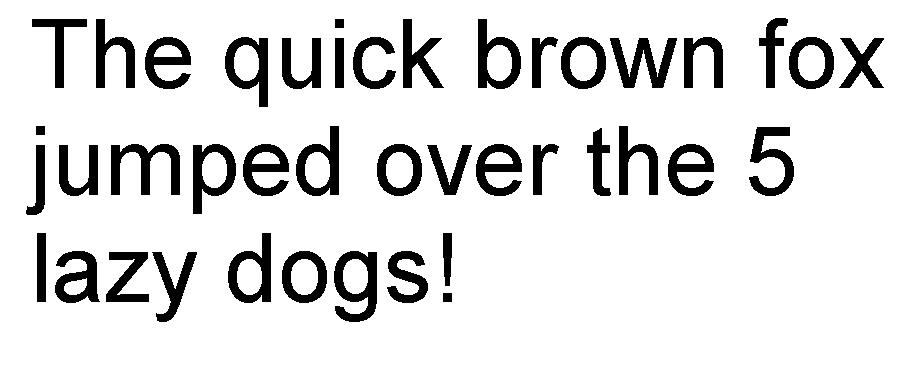
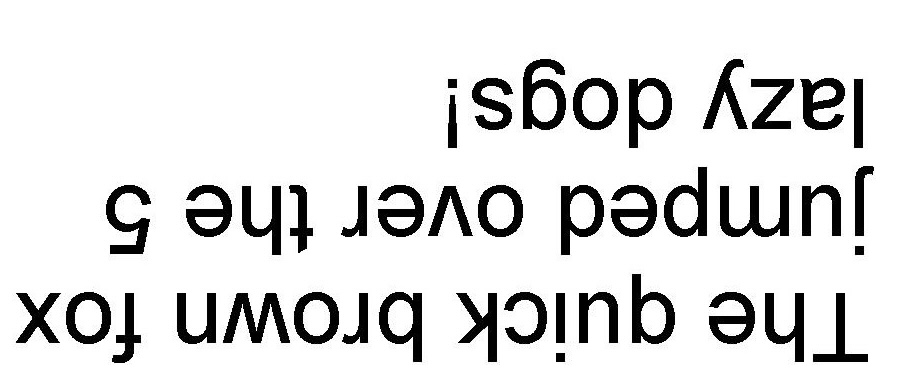
ML models of Faces and OCR ready for next gen C++ worker

diff --git a/ml/ocr/paddlepaddle.py b/ml/ocr/paddlepaddle.py
@@ -1,63 +1,70 @@
-"""ML OCR Paddle Model"""
+"""ML OCR PaddlePaddle Model"""
 import sys
 import os
 import urllib.request
-import shutil
+import tarfile
 
-import cv2
-from paddleocr_convert import PaddleOCRModelConvert
-from rapidocr_onnxruntime import RapidOCR
+from paddleocr import PaddleOCR
 
 
-MODEL_BASE_URL='https://paddleocr.bj.bcebos.com/'
+MODEL_BASE_URL="https://paddle-model-ecology.bj.bcebos.com/paddlex/official_inference_model/paddle3.0.0/"
+CATEGORY_MODELS = {
+    "doc_orient": ["PP-LCNet_x1_0_doc_ori_infer.tar"],
+    "text_unwrap": ["UVDoc_infer.tar"],
+    "text_line_orient": ["PP-LCNet_x1_0_textline_ori_infer.tar", "PP-LCNet_x0_25_textline_ori_infer.tar"],
+    "text_det": ["PP-OCRv5_server_det_infer.tar", "PP-OCRv5_mobile_det_infer.tar"],
+    "text_rec": ["PP-OCRv5_server_rec_infer.tar", "PP-OCRv5_mobile_rec_infer.tar"],
+}
 
 def download_and_save():
     """Download models for detection, recognition and classification"""
-    print('downloading and saving paddle ocr models')
-    urllib.request.urlretrieve(f'{MODEL_BASE_URL}PP-OCRv3/english/en_PP-OCRv3_det_infer.tar', 'det_infer.tar')
-    urllib.request.urlretrieve(f'{MODEL_BASE_URL}PP-OCRv3/english/en_PP-OCRv3_rec_infer.tar', 'rec_infer.tar')
-    urllib.request.urlretrieve(f'{MODEL_BASE_URL}dygraph_v2.0/ch/ch_ppocr_mobile_v2.0_cls_infer.tar', 'cls_infer.tar')
-    urllib.request.urlretrieve('https://raw.githubusercontent.com/PaddlePaddle/PaddleOCR/release/2.7/ppocr/utils/en_dict.txt', 'rec_en_dict.txt')
-    converter = PaddleOCRModelConvert()
-    converter('det_infer.tar', 'det_onnx')
-    converter = PaddleOCRModelConvert()
-    converter('cls_infer.tar', 'cls_onnx')
-    converter = PaddleOCRModelConvert()
-    converter('rec_infer.tar', 'rec_onnx', txt_path='rec_en_dict.txt')
-    os.remove('det_infer.tar')
-    os.remove('cls_infer.tar')
-    os.remove('rec_infer.tar')
-    os.remove('rec_en_dict.txt')
-    os.rename('det_onnx/det_infer/det_infer.onnx', 'det_onnx/model.onnx')
-    os.rename('cls_onnx/cls_infer/cls_infer.onnx', 'cls_onnx/model.onnx')
-    os.rename('rec_onnx/rec_infer/rec_infer.onnx', 'rec_onnx/model.onnx')
-    shutil.rmtree('det_onnx/det_infer')
-    shutil.rmtree('cls_onnx/cls_infer')
-    shutil.rmtree('rec_onnx/rec_infer')
-    
-def load_and_run(sample='example.jpg'):
-    """Loads the saved paddle ocr models and runs sample image"""
-    print('loading and running paddle ocr models')
-    engine = RapidOCR(rec_model_path='rec_onnx/model.onnx', det_model_path='det_onnx/model.onnx', cls_model_path='cls_onnx/model.onnx')
-    result = engine(cv2.imread(sample))
-    print(result)
-    detections = result[0]
-    text = ''
-    for detection in detections:
-        text += ' ' + detection[1]
-    text = text.strip()
-    print(text)
+    print("downloading and saving paddle ocr models")
+    for category, models in CATEGORY_MODELS.items():
+        for model in models:
+            urllib.request.urlretrieve(f"{MODEL_BASE_URL}{model}", model)
+            model_path = f"ocr_{category}"
+            os.makedirs(model_path, exist_ok=True)
+            with tarfile.open(model, "r:") as tar:
+                tar.extractall(path=model_path)
+                full_model_path = f"{model_path}/{model.replace('.tar', '')}"
+                # remove redundant files
+                for filename in os.listdir(full_model_path):
+                    if "demo" in filename:
+                        os.remove(full_model_path+"/"+filename)
 
-if __name__ == '__main__':
+    for models in CATEGORY_MODELS.values():
+        for model in models:
+            os.remove(model)
+
+def load_and_run(sample="example.jpg"):
+    """Loads the saved paddle ocr models and runs sample image"""
+    print("loading and running paddle ocr models")
+    ocr = PaddleOCR(
+        doc_orientation_classify_model_name="PP-LCNet_x1_0_doc_ori",
+        doc_orientation_classify_model_dir="./ocr_doc_orient/PP-LCNet_x1_0_doc_ori_infer",
+        textline_orientation_model_name="PP-LCNet_x0_25_textline_ori",
+        textline_orientation_model_dir="./ocr_text_line_orient/PP-LCNet_x0_25_textline_ori_infer",
+        doc_unwarping_model_name="UVDoc",
+        doc_unwarping_model_dir="./ocr_text_unwrap/UVDoc_infer",
+        text_detection_model_name="PP-OCRv5_mobile_det",
+        text_detection_model_dir="./ocr_text_det/PP-OCRv5_mobile_det_infer",
+        text_recognition_model_name="PP-OCRv5_mobile_rec",
+        text_recognition_model_dir="./ocr_text_rec/PP-OCRv5_mobile_rec_infer"
+    )
+    outputs = ocr.predict(sample)
+    for output in outputs:
+        output.save_to_json("ocr_output")
+
+if __name__ == "__main__":
     args = sys.argv
     if len(args) > 1:
-        if args[1] == 'save':
+        if args[1] == "save":
             download_and_save()
-            exit(0)
-        if args[1] == 'run':
+            sys.exit(0)
+        if args[1] == "run":
             if len(args)  == 3:
                 load_and_run(args[2])
             else:
                 load_and_run()
-            exit(0)
-    print('provide a valid arg: save OR run')
+            sys.exit(0)
+    print("provide a valid arg: save OR run")

diff --git a/ml/faces/export_onnx.py b/ml/faces/export_onnx.py
@@ -10,42 +10,36 @@ import onnxruntime as ort
 
 
 VERSION=os.getenv("VERSION", "dev").replace(".", "")
-FILENAME_SUFFIX = f"_v{VERSION}"
-DET_FILENAME = f"faces_det{FILENAME_SUFFIX}.onnx"
-DET_MODELS_ZIPNAME = f"faces_det.zip"
-REC_FILENAME = f"faces_rec{FILENAME_SUFFIX}.onnx"
-REC_MODELS_ZIPNAME = f"faces_rec.zip"
+DET_MODELS_ZIPNAME = "faces_det.zip"
+REC_MODELS_ZIPNAME = "faces_rec.zip"
 
 def export_and_save():
     """Download required models for detection and recognition, export and save for inference"""
     print("downloading face detection model")
-    urllib.request.urlretrieve("https://www.dropbox.com/scl/fo/9y86d4qb2nmkdtlf61aw0/AMc1Qfk6TtkbZMkhj8bBOVI?rlkey=2ztw1h9cvj9bsfc2niu42znr5&st=8u3eyse2&dl=1", DET_MODELS_ZIPNAME)
+    urllib.request.urlretrieve("https://www.dropbox.com/scl/fo/9y86d4qb2nmkdtlf61aw0/AMc1Qfk6TtkbZMkhj8bBOVI"+
+                               "?rlkey=2ztw1h9cvj9bsfc2niu42znr5&st=8u3eyse2&dl=1", DET_MODELS_ZIPNAME)
     with zipfile.ZipFile(DET_MODELS_ZIPNAME) as z:
         z.extractall("faces_det")
     os.remove(DET_MODELS_ZIPNAME)
     print("exporting and saving face detection model")
     print("all models are already exported in ONNX format!")
     print("downloading face recognition model")
-    urllib.request.urlretrieve("https://www.dropbox.com/scl/fo/pubfb5wkiv5c5iucmlyou/ABKeExgXz5r-KMk5VUw2fPg?rlkey=djw1796psv1ncqun0kgswmkr9&st=ruowqv0e&dl=1", REC_MODELS_ZIPNAME)
+    urllib.request.urlretrieve("https://www.dropbox.com/scl/fo/pubfb5wkiv5c5iucmlyou/ABKeExgXz5r-KMk5VUw2fPg"+
+                               "?rlkey=djw1796psv1ncqun0kgswmkr9&st=ruowqv0e&dl=1", REC_MODELS_ZIPNAME)
     with zipfile.ZipFile(REC_MODELS_ZIPNAME) as z:
         z.extractall("faces_rec")
     os.remove(REC_MODELS_ZIPNAME)
     print("exporting and saving face recognition model")
     print("all models are already exported in ONNX format!")
 
-def distance2bbox(points, distance):
-    x1, y1 = points[:, 0] - distance[:, 0], points[:, 1] - distance[:, 1]
-    x2, y2 = points[:, 0] + distance[:, 2], points[:, 1] + distance[:, 3]
-    return np.stack([x1, y1, x2, y2], axis=-1)
-
 def nms(dets, thresh=0.4):
+    """non maximum supression with threshold"""
     x1 = dets[:, 0]
     y1 = dets[:, 1]
     x2 = dets[:, 2]
     y2 = dets[:, 3]
-    scores = dets[:, 4]
     areas = (x2 - x1 + 1) * (y2 - y1 + 1)
-    order = scores.argsort()[::-1]
+    order = dets[:, 4].argsort()[::-1]
     keep = []
     while order.size > 0:
         i = order[0]
@@ -91,7 +85,9 @@ def load_and_run(sample="example.jpg"):
             grid = np.stack(np.mgrid[:h, :w][::-1], axis=-1).astype(np.float32)
             anchors = (grid * stride).reshape(-1, 2)
             anchors = np.repeat(anchors, 2, axis=0).reshape(-1, 2)
-            bboxes = distance2bbox(anchors, bboxes) / det_scale
+            x1, y1 = anchors[:, 0] - bboxes[:, 0], anchors[:, 1] - bboxes[:, 1]
+            x2, y2 = anchors[:, 0] + bboxes[:, 2], anchors[:, 1] + bboxes[:, 3]
+            bboxes = np.stack([x1, y1, x2, y2], axis=-1) / det_scale
             keep_inds = scores >= 0.5
             scores, bboxes = scores[keep_inds], bboxes[keep_inds]
             dets = np.hstack([bboxes, scores[:, None]])
@@ -102,7 +98,7 @@ def load_and_run(sample="example.jpg"):
                 if score > 0.8:
                     x1, y1, x2, y2 = box.astype(int)
                     face = img[y1-1:y2-1, x1-1:x2-1]
-                    cv2.imwrite(f"result/face_{model.replace('.onnx', '')}_{stride}_{idx}.jpg", face)
+                    cv2.imwrite(f"result/face_{model.replace(".onnx", "")}_{stride}_{idx}.jpg", face)
     # recognition
     for model in os.listdir("faces_rec"):
         session = ort.InferenceSession(f"faces_rec/{model}", providers=["CPUExecutionProvider"])
@@ -124,11 +120,11 @@ if __name__ == "__main__":
     if len(args) > 1:
         if args[1] == "save":
             export_and_save()
-            exit(0)
+            sys.exit(0)
         if args[1] == "run":
             if len(args)  == 3:
                 load_and_run(args[2])
             else:
                 load_and_run()
-            exit(0)
+            sys.exit(0)
     print("provide a valid arg: save OR run")
